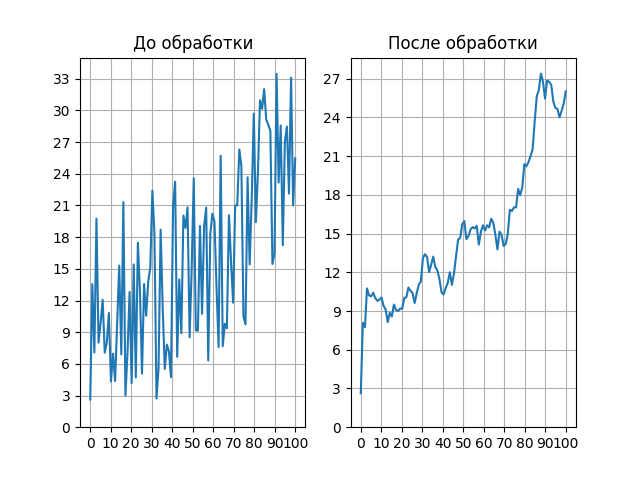
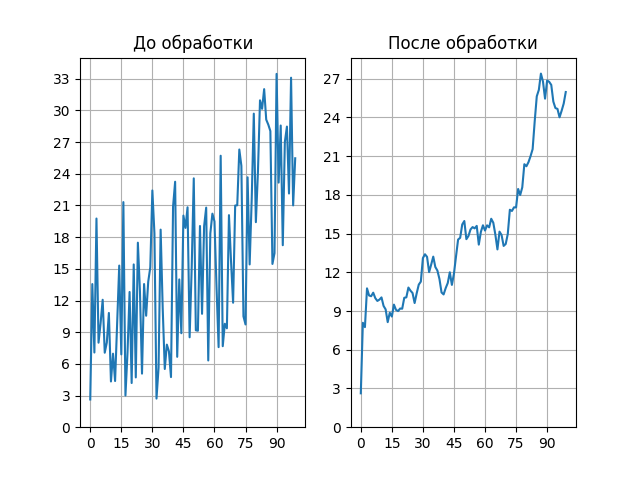
Addition of NumPy Lab

Changed region(s): [[0.1562, 0.9062, 0.5, 0.9375], [0.6875, 0.9062, 0.9062, 0.9375], [0.5625, 0.9062, 0.6562, 0.9375]]

diff --git a/Numpy/Filter.py b/Numpy/Filter.py
@@ -5,25 +5,28 @@ steps = [0, 3, 1, 2]
 
 def slide_average(N):
     global data
-    return data[max(0, int(N)-9): min(int(N) + 1, data.size - 1)].mean()
+    return data[max(0, N-9): N + 1].mean()
 
 
 for i in range(1, 4):
-    with open(f'/media/evgen/Big_disc/MIPT/2nd level/Chapter 3/Python/PythonLabs/Numpy/Ex2/signals/signal0{i}.dat') as file:
+    with open(f'Ex2/signals/signal0{i}.dat') as file:
         data = np.array(file.readlines(), dtype=np.float64)
-    new_data = np.array(list(map(slide_average, list(np.arange(0, data.size, 1)))))
+    # скользящее среднее - частный случай свёртки
+    res = list(np.convolve(data, np.ones(10)/10, mode='valid'))
+    res0 = [*map(slide_average, [0, 1, 2, 3, 4, 5, 6, 7, 8])]
+    res = np.array(res0 + res)
 
     fix, (ax, ox) = plt.subplots(ncols=2)
-    ox.plot(np.linspace(0, data.size, data.size), new_data)
-    ax.plot(np.linspace(0, data.size, data.size), data)
-    ax.set_xticks(np.arange(0, data.size + 1, 10))
+    ox.plot(np.arange(0, data.size, 1), res)
+    ax.plot(np.arange(0, data.size, 1), data)
+    ax.set_xticks(np.arange(0, data.size + 1, 15))
     ax.set_yticks(np.arange(0, int(data.max()) + 1, steps[i]))
     ax.grid()
 
-    ox.set_xticks(np.arange(0, new_data.size + 1, 10))
-    ox.set_yticks(np.arange(0, int(new_data.max()) + 1, steps[i]))
+    ox.set_xticks(np.arange(0, res.size + 1, 15))
+    ox.set_yticks(np.arange(0, int(res.max()) + 1, steps[i]))
     ox.grid()
     ax.set_title('До обработки')
     ox.set_title('После обработки')
-    plt.savefig(f'signal0{i}_filtered.png')
+    plt.savefig(f'Ex2/signal0{i}_filtered.png')
     plt.show()

diff --git a/Numpy/Prosses.py b/Numpy/Prosses.py
@@ -17,20 +17,19 @@ def next_frame(i):
 fig, ax = plt.subplots()
 
 # loading initial data
-p = np.loadtxt('/media/evgen/Big_disc/MIPT/2nd level/Chapter 3/Python/PythonLabs/Numpy/Ex3/start.dat')
+p = np.loadtxt('Ex3/start.dat')
 
 # creation of a matrix
 matrix = (np.eye(p.size) + np.roll(np.eye(p.size), 1, axis=0)) / 2
-
 line, = ax.plot(np.arange(0, p.size, 1), p)
 
 # create an animation instance
-ani = animation.FuncAnimation(fig, next_frame, interval=50, frames=np.arange(0, 255, 1), repeat=False)
+ani = animation.FuncAnimation(fig, next_frame, interval=120, frames=np.arange(0, 255, 1), repeat=False)
 
 ax.set_xticks(np.arange(0, p.size+1, 5))
-ax.set_yticks(np.arange(0, p.max() + 1, 1))
+ax.set_yticks(np.arange(0, p.max() + 1,  (p.max() + 1)//10))
 ax.grid()
 ax.set_title('Расчет течения процесса по времени')
 
 # saving animation
-ani.save("Ex3/process.gif", animation.PillowWriter(fps=30))
+ani.save("Ex3/process.gif", animation.PillowWriter(fps=25))

diff --git a/Numpy/Moon.py b/Numpy/Moon.py
@@ -1,15 +1,11 @@
 from PIL import Image
 import numpy as np
 
-for i in range(1,4):
+for i in range(1, 4):
     img = Image.open(
-        f"/media/evgen/Big_disc/MIPT/2nd level/Chapter 3/Python/PythonLabs/Numpy/Ex1/lunar_images/lunar0{i}_raw.jpg")
+        f"Ex1/lunar_images/lunar0{i}_raw.jpg")
     data = np.array(img)
     data = data - data.min()
-    new_colors = np.linspace(0, 255, data.max() + 1)
-    for index in range(len(data)):
-        for jndex in range(len(data[0])):
-            data[index, jndex] = int(new_colors[data[index, jndex]] + data[index, jndex])
-    res_img = Image.fromarray(data)
-    print(data.max(), data.min())
-    res_img.save(f'lunar0{i}_raw_contrast.jpg')
+    data = data * (255/data.max())
+    res_img = Image.fromarray(data.astype(np.uint8))
+    res_img.save(f'Ex1/lunar0{i}_raw_contrast.jpg')
